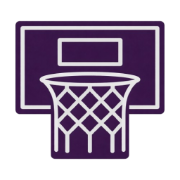
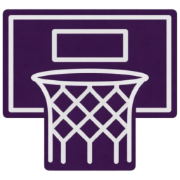
f

diff --git a/app.py b/app.py
@@ -1742,6 +1742,29 @@ def parse_lineup_key(key):
 app = Dash(__name__, 
            title="CBB Shot Charts",
            external_stylesheets=[dbc.themes.BOOTSTRAP])
+# ✅ Add custom meta tags for iOS home screen icon
+app.index_string = '''
+<!DOCTYPE html>
+<html>
+    <head>
+        {%metas%}
+        <title>{%title%}</title>
+        {%favicon%}
+        {%css%}
+        <link rel="apple-touch-icon" href="/assets/apple-touch-icon.png">
+        <meta name="apple-mobile-web-app-capable" content="yes">
+        <meta name="apple-mobile-web-app-status-bar-style" content="black-translucent">
+    </head>
+    <body>
+        {%app_entry%}
+        <footer>
+            {%config%}
+            {%scripts%}
+            {%renderer%}
+        </footer>
+    </body>
+</html>
+'''
 server = app.server  # for Render
 
 # --------------------------------------------------
